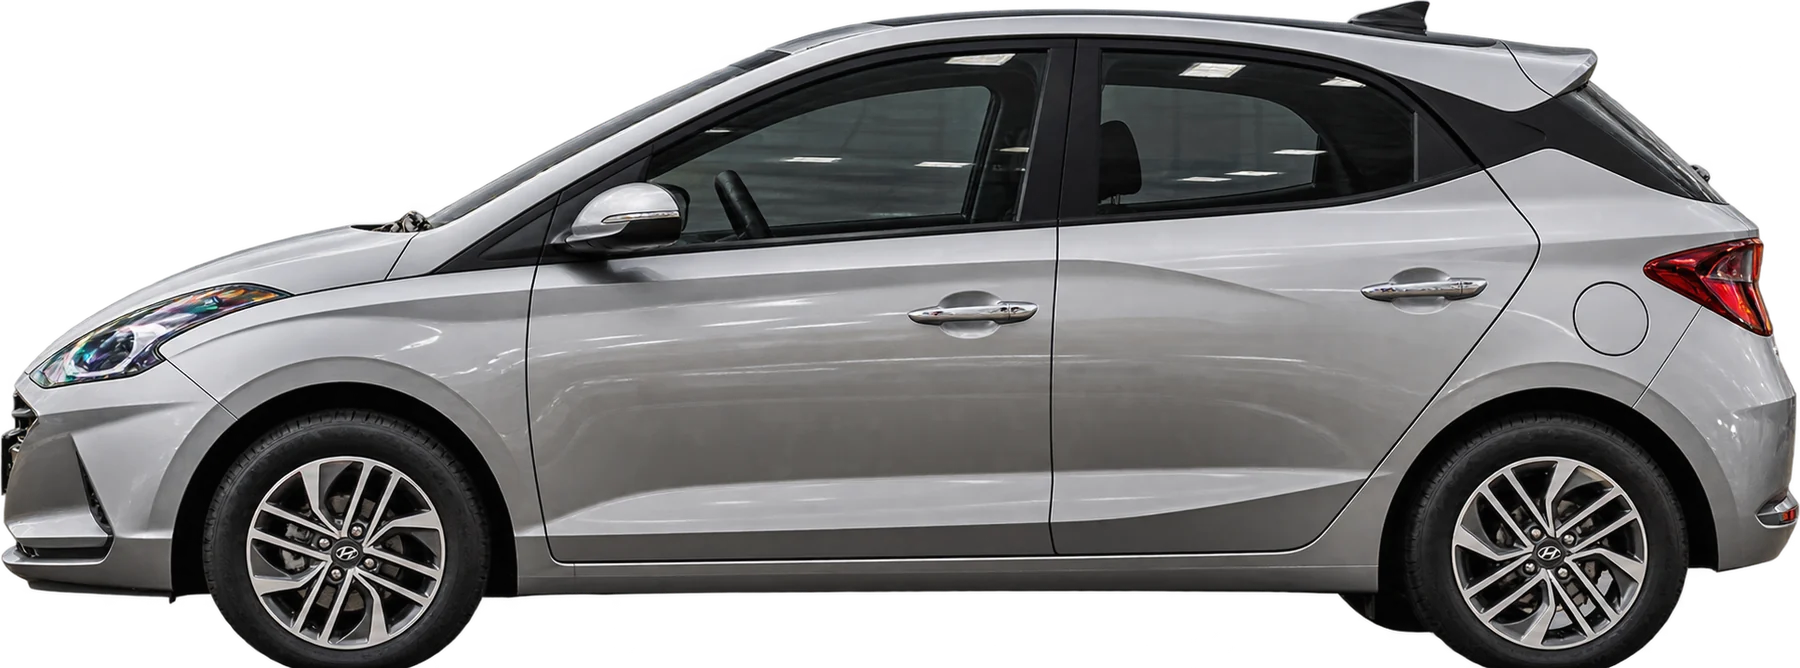
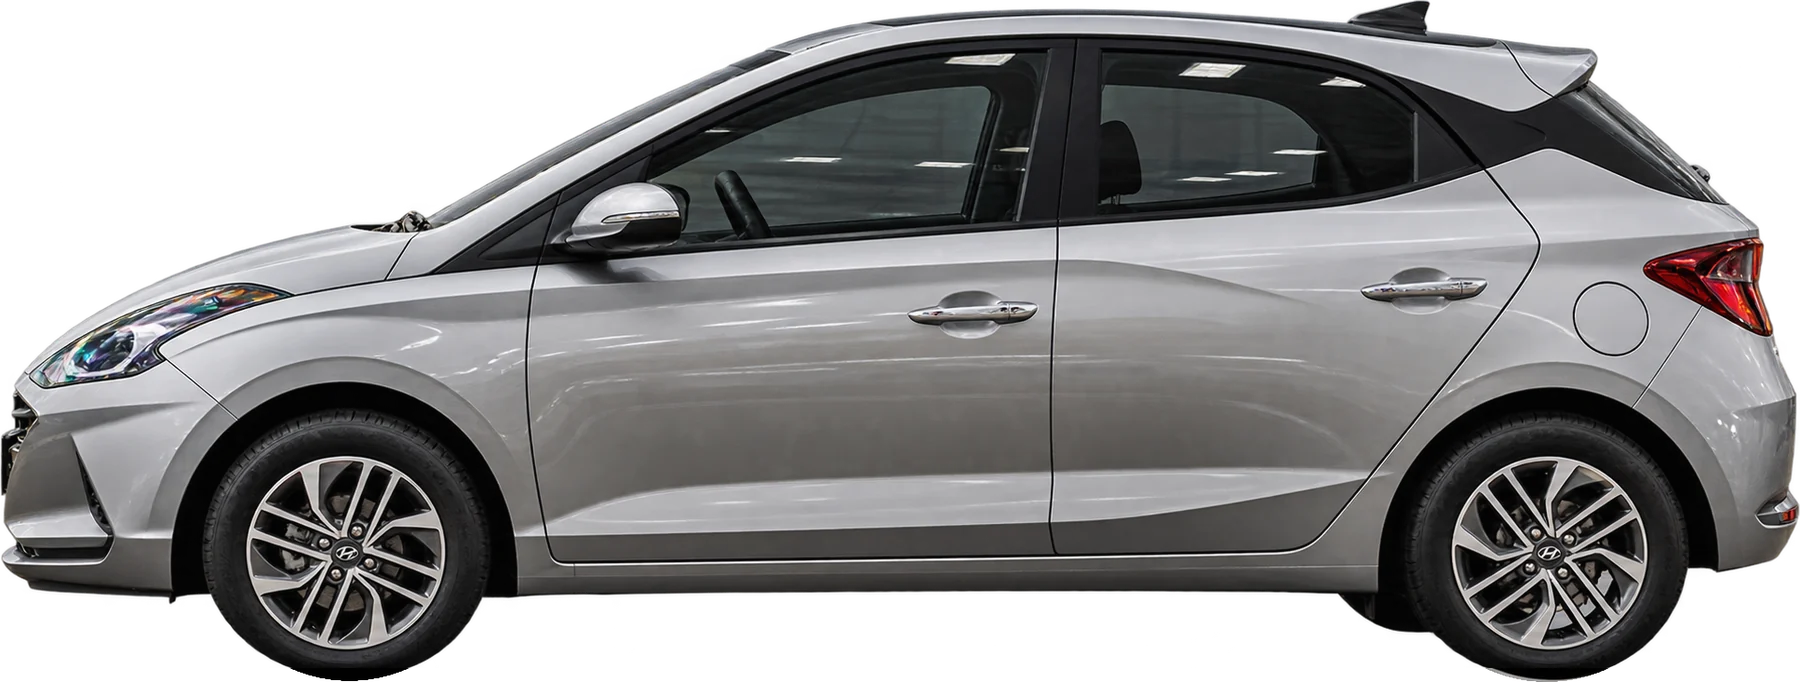
Hero: pneus do HB20 completos, selo amarelo com luz pulsando e título em três linhas no computador
Claude-Session: https://claude.ai/code/session_01SegUmpwDa4kvjfcHK4APPy

diff --git a/public/index.html b/public/index.html
@@ -98,8 +98,7 @@
         <div class="hero-copy">
           <p class="eyebrow"><i class="dot"></i><span data-s="textos.heroEyebrow">Seu próximo carro, sem enrolação</span></p>
           <h1 id="hero-titulo" aria-label="Escolha mais rápido. Dirija com prazer.">
-            <span class="ln" aria-hidden="true"><span style="--i:0">Escolha</span></span><br>
-            <span class="ln" aria-hidden="true"><span style="--i:1"><em>mais rápido.</em></span></span><br>
+            <span class="h-l1"><span class="ln" aria-hidden="true"><span style="--i:0">Escolha</span></span><br class="so-cel"> <span class="ln" aria-hidden="true"><span style="--i:1"><em>mais rápido.</em></span></span></span><br>
             <span class="ln" aria-hidden="true"><span style="--i:2">Dirija</span></span><br>
             <span class="ln" aria-hidden="true"><span style="--i:3"><em>com prazer.</em></span></span>
           </h1>
@@ -108,7 +107,7 @@
 
         <div class="hero-cars" aria-hidden="true">
           <span class="hero-shadow"></span>
-          <figure class="hc" data-cls="todos"><img src="img/carros/hero-todos.webp" width="1800" height="668" alt="" fetchpriority="high"></figure>
+          <figure class="hc" data-cls="todos"><img src="img/carros/hero-todos.webp" width="1800" height="682" alt="" fetchpriority="high"></figure>
           <figure class="hc" data-cls="hatch"><img src="img/carros/hero-hatch.webp" width="1800" height="685" alt="" loading="lazy"></figure>
           <figure class="hc" data-cls="cupe"><img src="img/carros/hero-esportivo.webp" width="1800" height="586" alt="" loading="lazy"></figure>
           <figure class="hc" data-cls="sedan"><img src="img/carros/hero-sedan.webp" width="1800" height="597" alt="" loading="lazy"></figure>

diff --git a/public/css/site.css b/public/css/site.css
@@ -687,3 +687,18 @@ body::before {
   background: url("../img/textura.webp") 0 0 / 280px 280px repeat; opacity: .42; mix-blend-mode: soft-light;
 }
 @media (max-width: 900px) { body::before { background-size: 200px 200px; } }
+
+/* Selo do hero em amarelo com luz pulsando */
+.hero-copy .eyebrow { color: var(--brand); font-weight: 700; }
+.hero-copy .eyebrow .dot { position: relative; box-shadow: 0 0 10px rgba(252, 211, 8, .8); animation: pisca 1.6s ease-in-out infinite; }
+.hero-copy .eyebrow .dot::after { content: ""; position: absolute; inset: 0; border-radius: 50%; background: var(--brand); animation: onda 1.6s ease-out infinite; }
+@keyframes pisca { 0%, 100% { opacity: 1; box-shadow: 0 0 12px rgba(252, 211, 8, .9); } 50% { opacity: .35; box-shadow: 0 0 2px rgba(252, 211, 8, .2); } }
+@keyframes onda { 0% { transform: scale(1); opacity: .7; } 100% { transform: scale(3.2); opacity: 0; } }
+@media (prefers-reduced-motion: reduce) { .hero-copy .eyebrow .dot, .hero-copy .eyebrow .dot::after { animation: none; } }
+
+/* Título do hero: no computador "Escolha mais rápido." numa linha só */
+@media (min-width: 901px) {
+  .hero h1 .so-cel { display: none; }
+  .hero h1 .h-l1 { white-space: nowrap; position: relative; z-index: 3; }
+  .hero-copy { z-index: 3; }
+}
